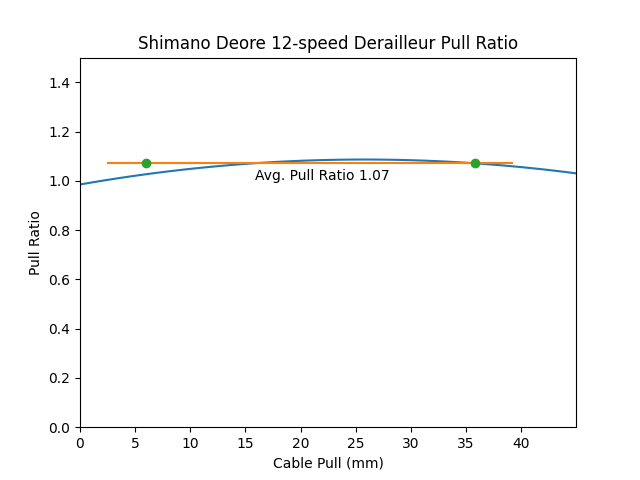
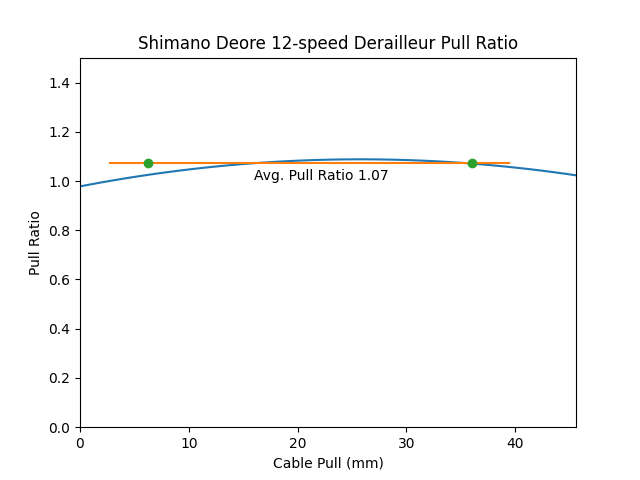
calc

diff --git a/derailleurs/Shimano Deore M6100/default.htm b/derailleurs/Shimano Deore M6100/default.htm
@@ -25,19 +25,19 @@ Shimano Deore 12-Speed
   </tr>
   <tr>
     <th>Curve Coefficients</th>
-    <td>8.51, 0.986, 0.00393, -0.000051</td>
+    <td>8.27, 0.978, 0.00427, -0.000055</td>
   </tr>
   <tr>
     <th>Physical Low Limit</th>
-    <td>8.51</td>
+    <td>8.27</td>
   </tr>
   <tr>
     <th>Physical High Limit</th>
-    <td>56.15</td>
+    <td>56.50</td>
   </tr>
   <tr>
     <th>Pull Ratio Averaged Across Pulling Runs</th>
-    <td>1.072 +/- 0.001</td>
+    <td>1.073 +/- 0.002</td>
   </tr>
   <tr>
     <th>Pull Ratio Averaged Across Relaxing Runs</th>
@@ -68,10 +68,30 @@ Shimano Deore 12-Speed
 
 
 <section>
+<h2>2025-01-18 16-16 PM Pulling</h2>
+<a href="pullratio/2025-01-18 16-16 PM Pulling.csv">Raw Measurement Data</a>
+<figure>
+<img src="pullratio/2025-01-18 16-16 PM Pulling.png"/>
+<figcaption>Data and best fit line, excluding points taken at limits</figcaption>
+</figure>
+</section>
+
+
+<section>
 <h2>2025-01-18 15-40 PM Relaxing</h2>
 <a href="pullratio/2025-01-18 15-40 PM Relaxing.csv">Raw Measurement Data</a>
 <figure>
 <img src="pullratio/2025-01-18 15-40 PM Relaxing.png"/>
+<figcaption>Data and best fit line, excluding points taken at limits</figcaption>
+</figure>
+</section>
+
+
+<section>
+<h2>2025-01-18 16-27 PM Relaxing</h2>
+<a href="pullratio/2025-01-18 16-27 PM Relaxing.csv">Raw Measurement Data</a>
+<figure>
+<img src="pullratio/2025-01-18 16-27 PM Relaxing.png"/>
 <figcaption>Data and best fit line, excluding points taken at limits</figcaption>
 </figure>
 </section>
